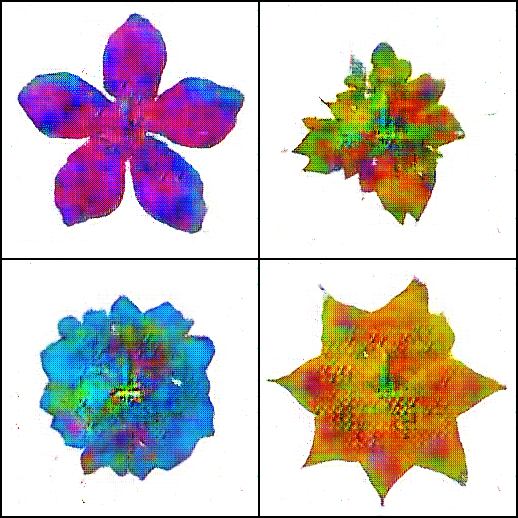
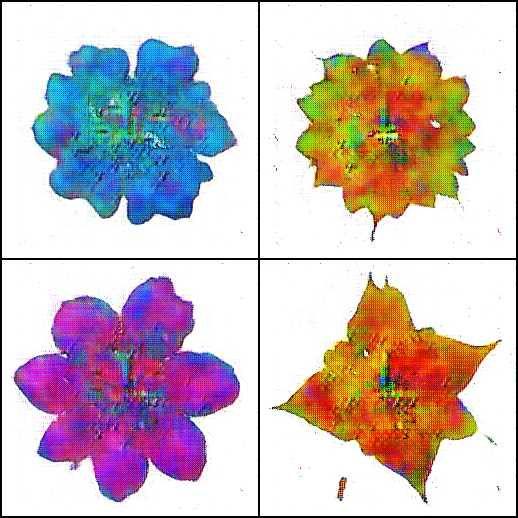
Fixed dev and prod containers

diff --git a/modelsmith/settings.py b/modelsmith/settings.py
@@ -20,16 +20,24 @@ BASE_DIR = Path(__file__).resolve().parent.parent
 # Quick-start development settings - unsuitable for production
 # See https://docs.djangoproject.com/en/4.0/howto/deployment/checklist/
 
-from .key_generator import get_key
-# SECURITY WARNING: keep the secret key used in production secret!
-key_used = get_key()
-print(f"Using Key {key_used} this session")
-SECRET_KEY = key_used
+DEBUG = os.environ.get('DEBUG', '1').lower() in {'1', 'true', 'yes'}
+SECRET_KEY = os.environ.get('SECRET_KEY', '')
+if not SECRET_KEY:
+    if not DEBUG:
+        raise RuntimeError('SECRET_KEY must be set when DEBUG is disabled')
+    SECRET_KEY = 'django-insecure-modelsmith-local-development-only'
 
-# SECURITY WARNING: don't run with debug turned on in production!
-DEBUG = True
-
-ALLOWED_HOSTS = ['*']
+ALLOWED_HOSTS = [host.strip() for host in os.environ.get(
+    'ALLOWED_HOSTS', 'localhost,127.0.0.1,[::1]'
+).split(',') if host.strip()]
+CSRF_TRUSTED_ORIGINS = [origin.strip() for origin in os.environ.get(
+    'CSRF_TRUSTED_ORIGINS', ''
+).split(',') if origin.strip()]
+if not DEBUG:
+    # The production web service is reachable only through Caddy.
+    SECURE_PROXY_SSL_HEADER = ('HTTP_X_FORWARDED_PROTO', 'https')
+    SESSION_COOKIE_SECURE = True
+    CSRF_COOKIE_SECURE = True
 
 
 # Application definition
@@ -62,7 +70,7 @@ ROOT_URLCONF = 'modelsmith.urls'
 TEMPLATES = [
     {
         'BACKEND': 'django.template.backends.django.DjangoTemplates',
-        'DIRS': ['templates'],
+        'DIRS': [BASE_DIR / 'templates'],
         'APP_DIRS': True,
         'OPTIONS': {
             'context_processors': [
@@ -84,7 +92,7 @@ WSGI_APPLICATION = 'modelsmith.wsgi.application'
 DATABASES = {
     'default': {
         'ENGINE': 'django.db.backends.sqlite3',
-        'NAME': BASE_DIR / 'db.sqlite3',
+        'NAME': os.environ.get('DATABASE_PATH', BASE_DIR / 'db.sqlite3'),
     }
 }
 

diff --git a/cnn/migrations/0001_initial.py b/cnn/migrations/0001_initial.py
@@ -1,0 +1,15 @@
+from django.db import migrations, models
+
+
+class Migration(migrations.Migration):
+    initial = True
+    dependencies = []
+    operations = [
+        migrations.CreateModel(
+            name='ImageModel',
+            fields=[
+                ('id', models.BigAutoField(auto_created=True, primary_key=True, serialize=False, verbose_name='ID')),
+                ('image_field', models.ImageField(upload_to='cnn_images/')),
+            ],
+        ),
+    ]

diff --git a/README.md b/README.md
@@ -58,3 +58,55 @@ python -m pip install -r requirements.txt
 python manage.py runserver
 ```
 
+
+## Containers
+
+Docker Engine and Docker Compose are required. Run commands from the repository root.
+Model weights must be present in `models/`; both setups mount them read-only.
+
+### Development
+
+```bash
+docker compose -f docker-compose-dev.yml up --build
+```
+
+Open http://localhost:8000. Source changes reload automatically. The source tree,
+SQLite database, and media remain on the host. The container defaults to UID/GID
+1000; if yours differ, prefix the command with
+`LOCAL_UID=$(id -u) LOCAL_GID=$(id -g)` so uploads and SQLite remain writable.
+The development server binds to localhost on the host machine.
+
+### Production
+
+```bash
+cp .env.example .env
+python -c 'import secrets; print(secrets.token_urlsafe(64))'
+```
+
+Set `DOMAIN` in `.env` to your hostname (without a scheme or path), and paste the
+generated value into `SECRET_KEY`. Keep the secret stable and do not commit `.env`.
+Point the domain at the server and allow inbound ports 80 and 443, then run:
+
+```bash
+docker compose -f docker-compose.prod.yml up --build -d
+docker compose -f docker-compose.prod.yml ps
+docker compose -f docker-compose.prod.yml logs -f web caddy
+```
+
+Caddy obtains HTTPS certificates and serves media and collected static files.
+Gunicorn is private to the Compose network. One worker and a 120-second timeout
+are the initial defaults for the memory-heavy ML demos; tune after measuring.
+Migrations and static collection must succeed before startup continues.
+
+SQLite, media, static assets, and Caddy state use persistent named volumes.
+The first start creates a new database rather than importing the repository's
+`db.sqlite3`. Existing host uploads are not imported automatically. Back up any
+existing deployment's database and media before switching configurations.
+The image's bundled media populate a fresh media volume; subsequent image builds
+do not overwrite an existing volume's files. Do not use `down -v` unless you
+intend to delete stored data and certificate state.
+
+The development and production stacks use separate Compose project names.
+Dependencies are currently unpinned; a successful build does not establish
+compatibility of every legacy PyTorch/Keras checkpoint. Verify each demo before
+publishing the service.
